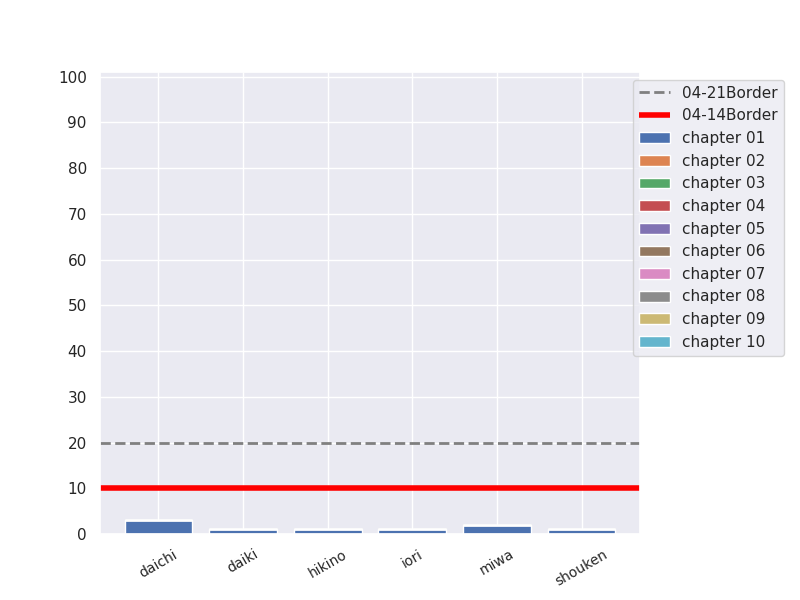
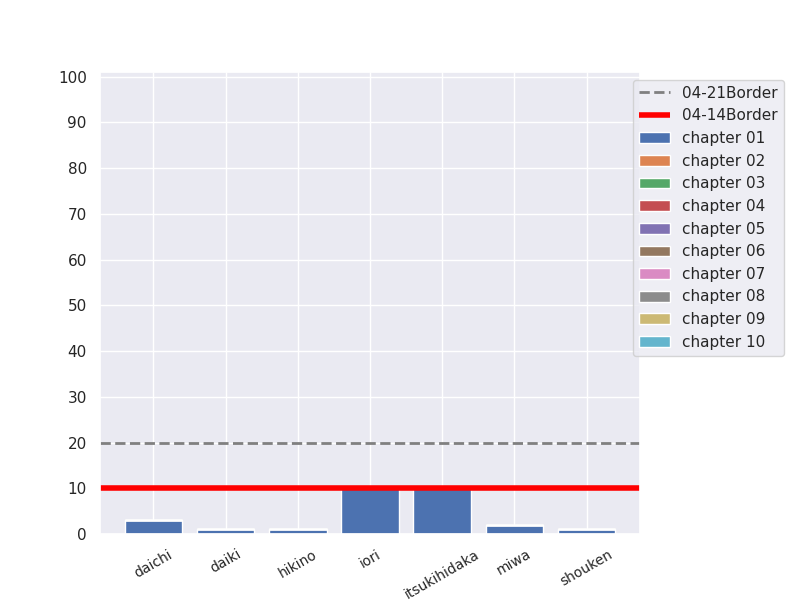
xin

diff --git a/itsukihidaka/chapter01/knock09.py b/itsukihidaka/chapter01/knock09.py
@@ -1,0 +1,16 @@
+# スペースで区切られた単語列に対して、各単語の先頭と末尾の文字は残し、それ以外の文字の順序をランダムに並び替えるプログラムを作成せよ。ただし、長さが４以下の単語は並び替えないこととする。適当な英語の文（例えば”I couldn’t believe that I could actually understand what I was reading : the phenomenal power of the human mind .”）を与え、その実行結果を確認せよ。
+
+import random
+
+def shuffle_word(word):
+    if len(word) <= 4:
+        return word
+    middle = word[1:-1]
+    random.shuffle(middle)
+    return word[0] +' ' + ' '.join(middle) + ' ' + word[-1]
+
+text = "I couldn’t believe that I could actually understand what I was reading : the phenomenal power of the human mind ."
+
+words = text.split()
+
+print(shuffle_word(words))

diff --git a/itsukihidaka/chapter01/knock04.py b/itsukihidaka/chapter01/knock04.py
@@ -1,0 +1,17 @@
+# “Hi He Lied Because Boron Could Not Oxidize Fluorine. New Nations Might Also Sign Peace Security Clause. Arthur King Can.”という文を単語に分解し、1, 5, 6, 7, 8, 9, 15, 16, 19番目の単語は先頭の1文字、それ以外の単語は先頭の2文字を取り出し、取り出した文字列から単語の位置（先頭から何番目の単語か）への連想配列（辞書型もしくはマップ型）を作成せよ。
+
+text = "Hi He Lied Because Boron Could Not Oxidize Fluorine. New Nations Might Also Sign Peace Security Clause. Arthur King Can."
+
+word_list = text.split()
+
+one_char_list = [1, 5, 6, 7, 8, 9, 15, 16, 19]
+
+result_dict = {}
+
+for i, word in enumerate(word_list):
+    if i + 1 in one_char_list:
+        result_dict[word[:1]] = i + 1
+    else:
+        result_dict[word[:2]] = i + 1
+
+print(result_dict)

diff --git a/itsukihidaka/chapter01/knock06.py b/itsukihidaka/chapter01/knock06.py
@@ -1,0 +1,17 @@
+# “paraparaparadise”と”paragraph”に含まれる文字bi-gramの集合に対する和集合・積集合・差集合を求めよ。さらに、’se’というbi-gramがXおよびYに含まれるかどうかを調べよ。
+
+text1 = "paraparaparadise"
+text2 = "paragraph"
+
+def n_gram(sequence, n):
+    return [sequence[i:i+n] for i in range(len(sequence)-n+1)]
+
+X = set(n_gram(text1, 2))
+Y = set(n_gram(text2, 2))
+
+print('和集合:', X | Y)
+print('積集合:', X & Y)
+print('差集合:', X - Y)
+
+print('se' in X)
+print('se' in Y)

diff --git a/iori/chapter01/knock06.py b/iori/chapter01/knock06.py
@@ -1,0 +1,26 @@
+def n_gram(n,word):
+    ans = []
+    for i in range(len(word)-n+1):
+        ans.append(word[i:i+n])
+    return ans
+
+a = 'paraparaparadise'
+b = 'paragraph'
+
+X = set(n_gram(2,a))
+Y = set(n_gram(2,b))
+
+print(f"X: {X}")
+print(f"Y: {Y}")
+print(f"X | Y: {X | Y}")
+print(f"X & Y: {X & Y}")
+print(f"X - Y: {X - Y}")
+
+def check(x):
+    if 'se' in x:
+        return True
+    else:
+        return False
+    
+print(f"Xにseは含まれているか？: {check(X)}")
+print(f"Yにseは含まれているか？: {check(Y)}")

diff --git a/itsukihidaka/chapter01/knock08.py b/itsukihidaka/chapter01/knock08.py
@@ -1,0 +1,10 @@
+# 与えられた文字列の各文字を、以下の仕様で変換する関数cipherを実装せよ。
+# 英小文字ならば (219 - 文字コード) のASCIIコードに対応する文字に置換
+# その他の文字はそのまま出力
+# この関数を用い、英語のメッセージを暗号化・復号化せよ。
+
+def cipher(text):
+    return ''.join(chr(219 - ord(c)) if c.islower() else c for c in text)
+
+print(f'暗号化: {cipher("Hello, World!")}')
+print(f'復号化: {cipher(cipher("Hello, World!"))}')

diff --git a/itsukihidaka/chapter01/knock03.py b/itsukihidaka/chapter01/knock03.py
@@ -1,0 +1,9 @@
+# “Now I need a drink, alcoholic of course, after the heavy lectures involving quantum mechanics.”という文を単語に分解し、各単語の（アルファベットの）文字数を先頭から出現順に並べたリストを作成せよ。
+
+text = "Now I need a drink, alcoholic of course, after the heavy lectures involving quantum mechanics."
+
+word_list = text.split()
+
+word_length_list = [len(word) for word in word_list]
+
+print(word_length_list)

diff --git a/itsukihidaka/chapter01/knock05.py b/itsukihidaka/chapter01/knock05.py
@@ -1,0 +1,9 @@
+#与えられたシーケンス（文字列やリストなど）からn-gramを作る関数を作成せよ。この関数を用い、”I am an NLPer”という文から文字tri-gram、単語bi-gramを得よ。
+
+text = "I am an NLPer"
+
+def n_gram(sequence, n):
+    return [sequence[i:i+n] for i in range(len(sequence)-n+1)]
+
+print('文字tri-gram:', n_gram(text, 3))
+print('単語bi-gram:', n_gram(text.split(), 2))

diff --git a/iori/chapter01/knock04.py b/iori/chapter01/knock04.py
@@ -1,0 +1,14 @@
+#水平リーベ僕の船
+text = "Hi He Lied Because Boron Could Not Oxidize Fluorine. New Nations Might Also Sign Peace Security Clause. Arthur King Can."
+num = [1, 5, 6, 7, 8, 9, 15, 16, 19]
+text = text.replace(".", "")
+ans = {}
+for i,j in enumerate(text.split()):
+    if i+1 in num:
+        ans[j[0]] = i+1 
+    else:
+        ans[j[0:2]] = i+1
+print(ans)
+
+
+

diff --git a/iori/chapter01/knock08.py b/iori/chapter01/knock08.py
@@ -1,0 +1,15 @@
+#この暗号化で小文字アルファベットが反転する
+
+text = 'Highway to the danger zone'
+
+def cipher(text):
+    ans = ''
+    for i in text:
+        if i.islower():
+            ans += chr(219 - ord(i))
+        else:
+            ans += i
+    return ans
+
+print(cipher(text))
+print(cipher(cipher(text)))

diff --git a/iori/chapter01/knock09.py b/iori/chapter01/knock09.py
@@ -1,0 +1,11 @@
+import random
+
+text = 'I couldn’t believe that I could actually understand what I was reading : the phenomenal power of the human mind .'
+ans = []
+
+for i in text.split():
+    if len(i) > 4:
+        i = i[0] + ''.join(random.sample(i[1:-1], len(i) - 2)) + i[-1]
+    ans.append(i)
+    
+print(' '.join(ans))

diff --git a/itsukihidaka/chapter01/knock00.py b/itsukihidaka/chapter01/knock00.py
@@ -1,0 +1,11 @@
+# 2つの文字列「パトカー」と「タクシー」の文字を先頭から交互に連結し、文字列「パタトクカシーー」を得よ。
+
+text1 = 'パトカー'
+text2 = 'タクシー'
+
+result_text = ''
+
+for t1, t2 in zip(text1, text2):
+    result_text += t1 + t2
+
+print(result_text)

diff --git a/itsukihidaka/chapter01/knock07.py b/itsukihidaka/chapter01/knock07.py
@@ -1,0 +1,6 @@
+# 引数x, y, zを受け取り「x時のyはz」という文字列を返す関数を実装せよ。さらに、x=12, y=”気温”, z=22.4として、実行結果を確認せよ。
+
+def create_sentence(x, y, z):
+    return f'{x}時の{y}は{z}'
+
+print(create_sentence(12, '気温', 22.4))
